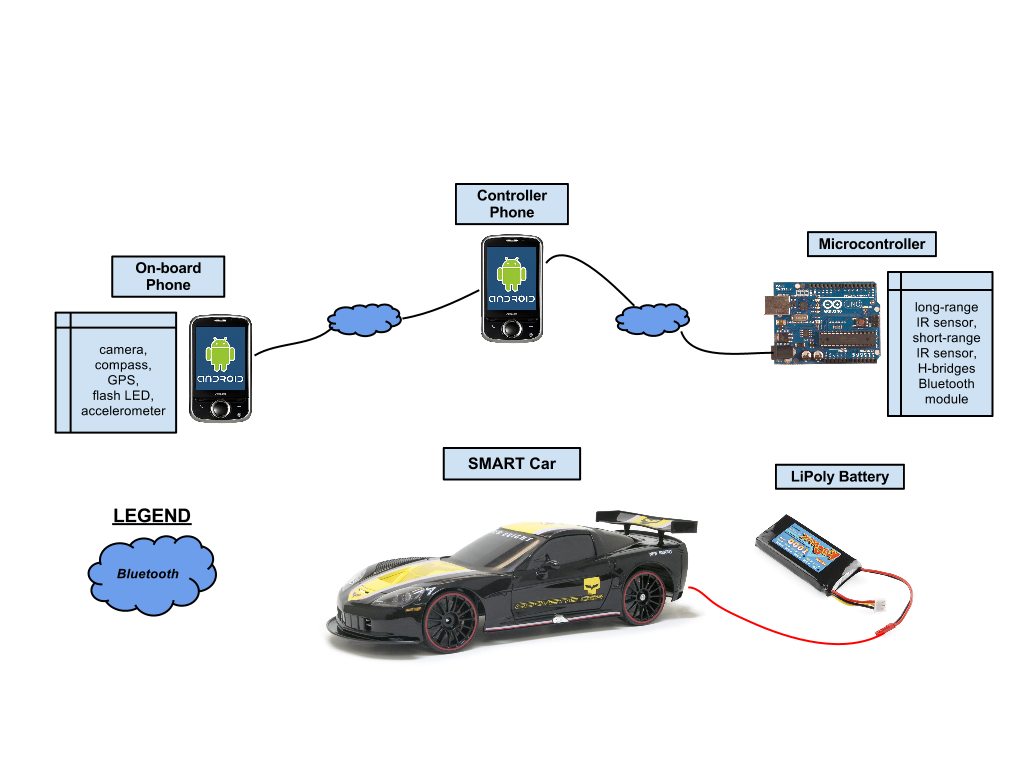
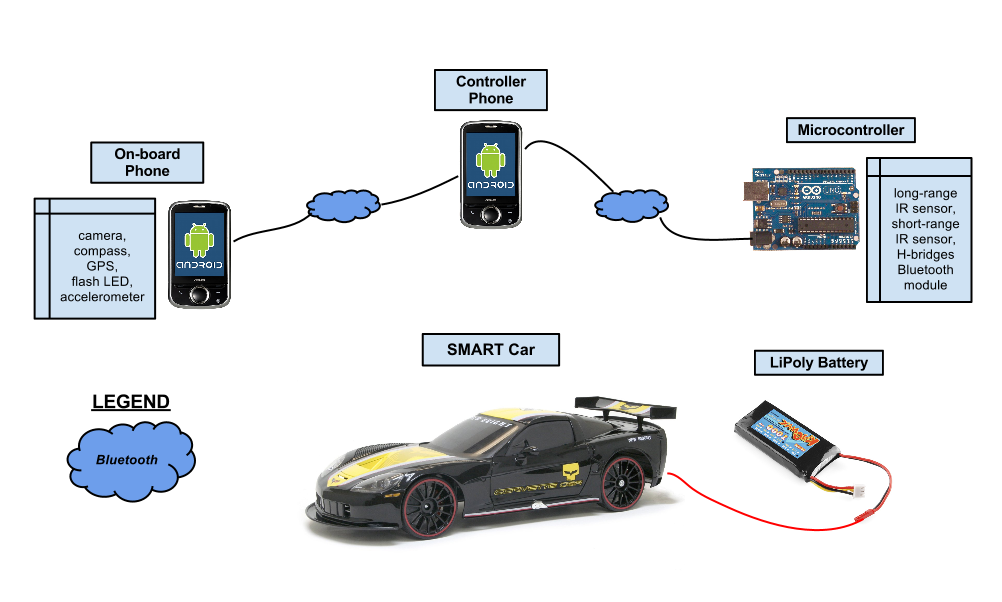
Cropped image and updated README

diff --git a/index.md b/index.md
@@ -1,48 +1,89 @@
 ---
 layout: project
 title: rc-car-collision
-subtitle: A real-time computer system to prevent head-on traffic collisions (of RC cars)..
+subtitle: A real-time computer system to prevent head-on traffic collisions (of RC cars).
 ---
 
-<img src="http://niftyhedgehog.com/rc-car-collision/images/profie_view.jpg">
+<img src="http://niftyhedgehog.com/rc-car-collision/images/profile_view.jpg">
 
 ## Overview
-*A real-time computer system to prevent head-on traffic collisions on a scaled hardware platform consisting of R/C car, microcontroller, and Android-powered smartphones. This project encompassed analog signal processing, Bluetooth communication, motor control, interrupts & scheduling, fault-tolerance & recovery.*
-
-*Developed in Spring 2012 for USC's Real Time Computer Systems (EE545) course. This was a team project completed by A. Hagio, H. Nguyen, L. Sakamoto, and Z. Slavis under the guidance of Prof. Monte Ung.*
-
-<img src="images/profile_view.jpg" width="700">
-
 Traffic accidents are one of the leading causes of death among humans. It is predicted that by 2020, traffic accidents will exceed HIV/AIDS as a burden of death and disability. And by 2030, it will become the fifth leading cause of death, period. Accidents occur because of humans' inability to react quickly in situations that require fast responses. Furthermore, a human’s reaction time is crippled by physcial impairments such as drug usage, poor eyesight, sleep deprivation, and inexperience. External factors such as poor road conditions, inclement weather, speeding, and distractions (both from inside the vehicle or from the surrounding environment) also play a significant role. The occurrence of accidents is highly dependant on factors relating to human behavior, sensory perception, decision making, reaction speed, awareness, and alertness.
-Our solution to the rising problem of road traffic accidents is to reduce human error by employing real-time computer processes for sensing, perception, and reaction. Avoiding traffic collisions is a life-critical task that depends on real-time systems to operate reliably. This system must meet its deadlines in a predictable manner, but also process sensor data correctly to avoid false positive results. We will build a car that can automatically avoid head-on collisions, maintain a constant distance when following another car/object, and allow manual control override by a remote user through a graphical user interface. 
+
+Our solution to the rising problem of road traffic accidents is to reduce human error by employing real-time computer processes for sensing, perception, and reaction. Avoiding traffic collisions is a life-critical task that depends on real-time systems to operate reliably. This system must meet its deadlines in a predictable manner, but also process sensor data correctly to avoid false positive results. We will build a vehicle that can automatically avoid head-on collisions, maintain a constant distance when following another car/object, and allow manual control override by a remote user through a graphical user interface. 
+
+This project was developed in the spring of 2012 for USC's Real Time Computer Systems (EE-554) course, taught by professor Monte Ung. My team members included Austen Hagio, Lance Sakamoto, and Zachary Slavis.
+
 
 ## Hardware
+The Sensing Mobile Android-assisted Real Time (SMART) Car is an R/C car retrofitted with a real-time computer system to prevent head-on traffic collisions. This scaled hardware platform consists of R/C car, microcontroller, and Android-powered smartphones.
 
-<img src="http://niftyhedgehog.com/rc-car-collision/images/EE554ProjectProposal.png" width="500">
+One smart phone is mounted to the front of the car, providing the vehicle with a rich collection of high-performance sensors and essentially, a global communications endpoint. The on-board smart phone runs a mobile application to read data from the various sensors and communicates this information to the controller phone over a Bluetooth connection. The sensors used are a camera for obtaining visual data, an orientation sensor to measure the car's heading, a 3-axis accelerometer to measure the car's acceleration, and a GPS for determining the car's geolocation, speed, and altitude. The mobile application also provides access to the camera's dual-LED flash, which can be used as car headlights in low-light conditions.
 
-- analog data sampling from proximity sensors (short/long range infrared) and phone sensors (GPS, accelerometer, compass)
-- accurate motor control of the R/C car for collision avoidance (L293NE H-bridge)
-- wireless communication (synchronization, queueing) using BlueSMiRF Silver Bluetooth modem to send and receive data streams for motor control and mode configuration from a remote controller smart phone
-- multithreaded Android application
-- LiPo battery powered
+<img src="http://niftyhedgehog.com/rc-car-collision/images/EE554ProjectProposal.png">
 
-<img src="http://niftyhedgehog.com/rc-car-collision/images/Smart_Car_diagram.png" width="500">
+An Arduino Uno was used for proximity sensing, motor control, and Bluetooth communication. On the front of the vehicle, we mounted a Sharp GP2Y0S02YK0F Long Range Infrared Proximity Sensor, which can measure distances in the range of 20 to 150 cm. On the back of the vehicle, we mounted a Sharp GP2D120XJ00F Short Range Infrared Proximity Sensor, which can measure distances in the range of 4 to 30 cm. For motor control, a L293NE quadruple half H-bridge IC was used to allow bidirectional current flow as well as the disabling of motors to come to a rolling stop.
 
-An Android-powered smart phone is mounted to the front of the car, providing the vehicle with a rich collection of high-performance sensors and essentially, a global communications endpoint.  The on-board smart phone runs a mobile application to read data from the various sensors and communicates this information to the controller phone over a Bluetooth connection.  The sensors used are a camera for obtaining visual data, an orientation sensor to measure the car's heading, a 3-axis accelerometer to measure the car's acceleration, and a GPS for determining the car's geolocation, speed, and altitude.  The mobile application also provides access to the camera's dual-LED flash, which can be used as car headlights in low-light conditions.
+The Arduino Uno does not contain a built-in transceiver for wireless communication. Instead, an external module was interfaced to its UART serial port, and communication with the TTL serial device occurred across the digital RX/TX pins. This was done using the BlueSMiRF Silver Bluetooth modem to send and receive data streams for motor control and mode configuration from a remote controller smart phone.  
+
+A diagram of the the motors, L293, proximity sensors, Bluetooth module, and Arduino connections is shown in the figure below.
+
+<img src="http://niftyhedgehog.com/rc-car-collision/images/Smart_Car_diagram.png">
+
+<img src="http://niftyhedgehog.com/rc-car-collision/images/aerial_view.jpg">
+
+<img src="http://niftyhedgehog.com/rc-car-collision/images/star_view.jpg">
+
 
 ## Software
+This project encompassed analog signal processing, Bluetooth communication, motor control, interrupts & scheduling, and fault-tolerance & recovery. The major software components included: 
 
-- Amarino toolkit
-- Android BluetoothChatService library
-- Arduino 
+* Remote motor control from a smartphone
+* Sensor data processing for "collision avoidance" and cruise control"
+* Bluetooth communication protocol and data streaming
 
-<img src="http://niftyhedgehog.com/rc-car-collision/images/onboard_app.png" height="500">
+For motor control, pulse width modulation was used to change speed and direction of the car. The motor control algorithm was abstracted to simplify the interface with a smartphone connected over Bluetooth. The flags 'a' and 'd' correspond to the front and rear motor respectively, while the motor values could range from 1-10 to indicate speed and direction. For the front motor, values less than 5 correspond to turning left while values greater than 5 correspond to turning right. A value of 5 represents the motor at rest.
 
-<img src="http://niftyhedgehog.com/rc-car-collision/images/controller_app.png" height="500">
+```
+void Motor::MotorOn(unsigned char &flag, unsigned char &motorvalue) 
+{ 
+	int speed; 
+	if (flag == 'a') { 
+		if (motorvalue<5) { 
+		//LEFT (a) 
+			digitalWrite(HBRIDGE_EN, HIGH); 
+			speed = (5-motorvalue)*51; 
+			analogWrite(MOTOR1PIN1, speed); 
+			digitalWrite(MOTOR1PIN2, LOW); 
+			digitalWrite(HBRIDGE_EN, LOW); 
+		} else if (motorvalue>5) { 
+		//RIGHT (d) 
+			digitalWrite(HBRIDGE_EN, HIGH); 
+			speed = (motorvalue-5)*51; 
+			analogWrite(MOTOR1PIN2, speed); 
+			digitalWrite(MOTOR1PIN1, LOW); 
+			digitalWrite(HBRIDGE_EN, LOW); 
+		} 
+		else{ 
+			digitalWrite(HBRIDGE_EN, LOW);
+			digitalWrite(MOTOR1PIN2, LOW);
+			digitalWrite(MOTOR1PIN1, LOW);  
+		} 
+	} else if (flag == 'd') { 
+	
+	...
+	
+} 
+```
+
+The Arduino Uno microcontroller interprets the proximity data from the IR sensors in every cycle. A [running median](http://arduino.cc/playground/Main/RunningMedian) is used to eliminate distance glitches from the sensor. The most real-time critical aspect of the motor control is the ability of the car to brake in time to avoid objects. For collision avoidance, the motors were applied in the reverse direction when the sensors detected an object a certain distance away, depending on the current speed. In cruise control mode, distance flags are used to signal the car to accelerate, decelerate, or comes to a stop in order to maintain a constant distance from an object in front of it.
+
+By utilizing the Amarino "MeetAndroid" library, we implemented an effective Bluetooth control protocol using flags and callback functions. The [Amarino Toolkit](http://www.amarino-toolkit.net/) contains a set of tools used to connect Android-driven mobile devices with Arduino microcontrollers via Bluetooth. It provides easy access to internal phone events which can be further processed on the Arduino linked to the MeetAndroid library. Essentially, the Arduino registers a callback function to perform on receipt of a unique flag from the smart phone. Within the callback functions, we can then read the rest of the Bluetooth message that contains motor commands or operation mode configuration instructions. From here, our motor control library processes the motor commands and allows the car to move full speed ahead!
+
+Android applications were created as user interfaces for the on-board smartphone and remote controller smartphone. The onboard app displays sensor data from the compass, accelerometer, and GPS, and also records a live camera feed. The controller app receives the video stream and can transmit hard motor commands or configure the system for "collision avoidance" and "cruise control" modes. The Android BluetoothChatService library was utilized to send serial streams through the Bluetooth socket. 
+
+<img src="http://niftyhedgehog.com/rc-car-collision/images/onboard_app.png" width="49%">
+<img src="http://niftyhedgehog.com/rc-car-collision/images/controller_app.png" width="50%">
 
 
 ## Demo
-
-<img src="http://niftyhedgehog.com/rc-car-collision/images/aerial_view.jpg" width="500">
-
-Video
+<iframe width="560" height="315" src="https://www.youtube.com/embed/4o_OnwHa5dQ" frameborder="0" allowfullscreen></iframe>
